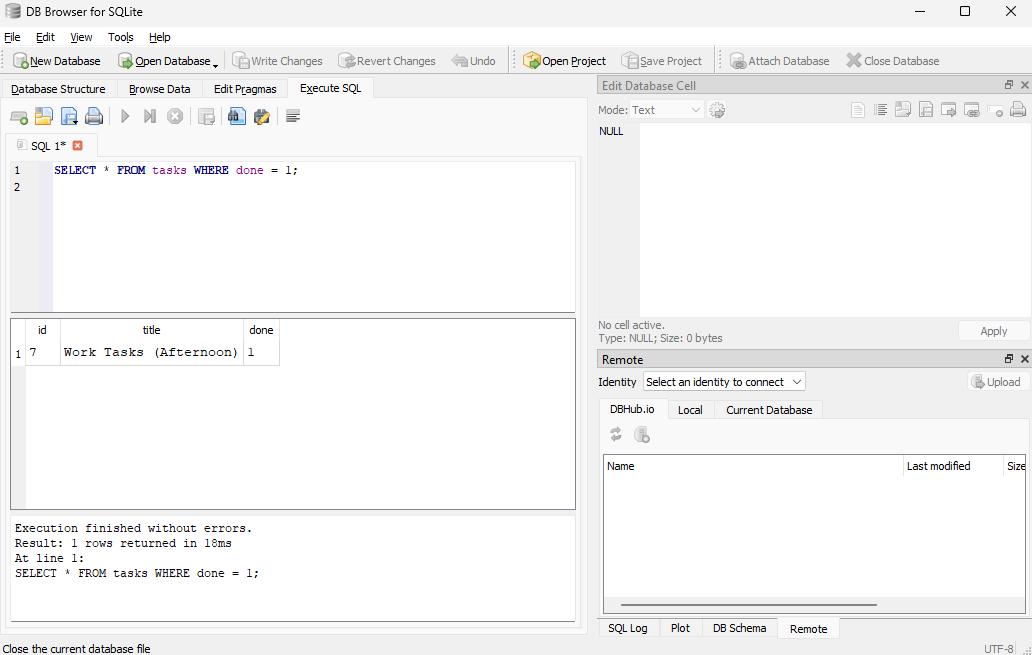
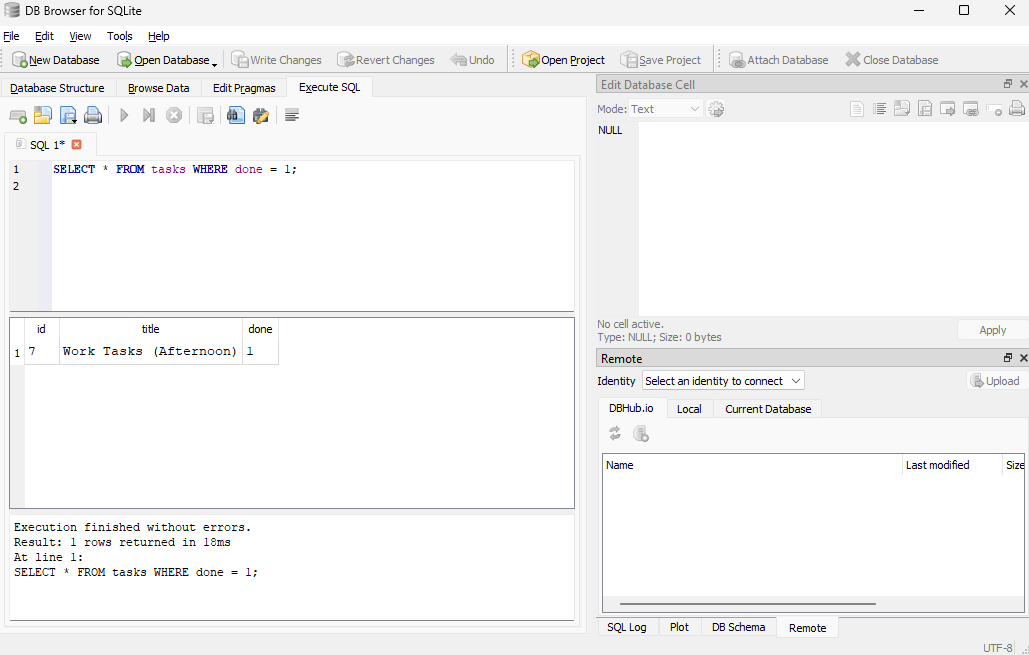
updated the README file

diff --git a/README.md b/README.md
@@ -54,4 +54,8 @@ API has no in-memory cache of its own; it queries the database fresh every time.
 
 ## Swagger UI
 
+![Swagger UI](image.png)
+
+## DB Browser
+
 ![DB Browser](image-1.png)